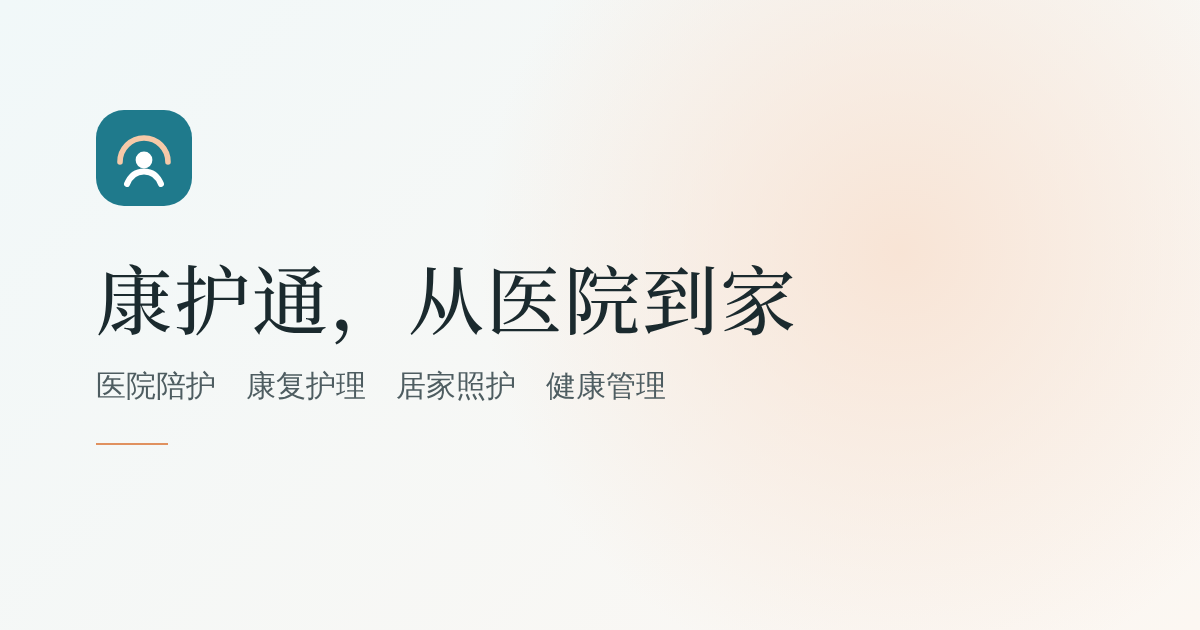
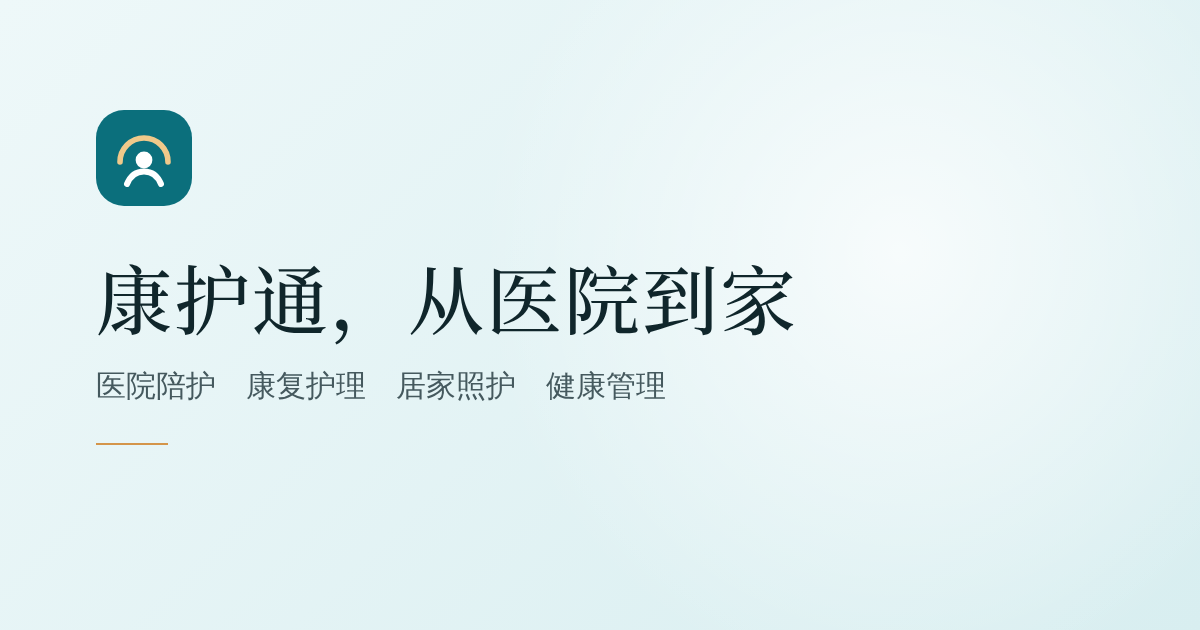
Make blue-green the dominant tone with warm accents only
Primary #0b6f7c with blue-green tints for section backgrounds, cards,
top bar and footer. Warm amber is limited to the family-concerns section
and small family-facing details. Larger display type and more generous
spacing; logo, sharing image and app icon recoloured.

Claude-Session: https://claude.ai/code/session_01QeRiE8XZmtAwkRMHqXrz8j

Changed region(s): [[0.6167, 0.1508, 0.8942, 0.6635], [0.4625, 0.573, 1.0, 1.0], [0.0925, 0.2111, 0.1542, 0.2413]]

diff --git a/assets/css/style.css b/assets/css/style.css
@@ -8,24 +8,24 @@
 @font-face { font-family: "KHT Serif"; font-weight: 600; font-display: swap; src: url("../fonts/kht-serif-latin-600.woff2") format("woff2"); unicode-range: U+0000-2E7F; }
 
 :root {
-  /* Two-tone palette.
-     Teal = professional trust: structure, buttons, links, data.
-     Apricot = warmth and companionship: family moments, icons, highlights. */
-  --brand: #1f7a8c;
-  --brand-mid: #2b8a9c;
-  --brand-deep: #186271;
-  --brand-ink: #123e47;
-  --brand-200: #bfe0e6;
-  --brand-100: #def0f3;
-  --brand-50: #f1f8f9;
-  --accent: #e0915f;         /* apricot: dots, rules, icon tints (decorative only) */
-  --accent-ink: #a85a32;     /* apricot dark enough for small text on white (5:1) */
-  --accent-soft: #f8e2d2;
-  --warm-100: #f5e8db;
-  --warm-50: #fcf7f2;
-  --ink: #1b2a2e;
-  --ink-soft: #4e5d61;
-  --line: #e2e9eb;
+  /* Blue-green is the dominant tone: actions, section tints, cards, top bar, footer.
+     Warm amber is an accent only: a few family-facing details and one section. */
+  --brand: #0b6f7c;
+  --brand-mid: #13808d;
+  --brand-deep: #085966;
+  --brand-ink: #063d46;
+  --brand-200: #b5dde1;
+  --brand-100: #d8eef0;
+  --brand-50: #eef8f9;
+  --brand-tint: #e3f2f3;     /* alternate section background */
+  --accent: #d4954a;         /* warm amber: dots, icon tints (decorative only) */
+  --accent-ink: #95601d;     /* amber dark enough for small text on white (5.3:1) */
+  --accent-soft: #f7e6cf;
+  --warm-100: #f4e6d4;
+  --warm-50: #fcf6ee;
+  --ink: #10262b;
+  --ink-soft: #45595e;
+  --line: #d9e9eb;
   --white: #ffffff;
   --alert: #b3261e;
   --focus: #e0a43a;
@@ -38,24 +38,24 @@
   --fs-sm: 0.889rem;
   --fs-md: 1.2rem;
   --fs-lg: 1.5rem;
-  --fs-xl: clamp(1.75rem, 1.35rem + 1.6vw, 2.5rem);
-  --fs-2xl: clamp(2.2rem, 1.4rem + 3.2vw, 4rem);
+  --fs-xl: clamp(1.9rem, 1.35rem + 2.1vw, 3rem);
+  --fs-2xl: clamp(2.4rem, 1.3rem + 4.2vw, 4.75rem);
 
   --space-1: 0.5rem;
   --space-2: 1rem;
   --space-3: 1.5rem;
   --space-4: 2rem;
   --space-5: 3rem;
-  --space-6: clamp(3.75rem, 2.5rem + 4.5vw, 7rem);
+  --space-6: clamp(4.5rem, 2.75rem + 5.5vw, 8.5rem);
 
   --gutter: clamp(1rem, 4vw, 3rem);
-  --max: 76rem;
+  --max: 80rem;
   --radius-sm: 8px;
   --radius: 16px;
   --radius-lg: 28px;
   --shadow: 0 30px 60px -36px rgba(24, 48, 44, 0.45);
   --ease-out: cubic-bezier(0.22, 1, 0.36, 1);
-  --header-h: 4.5rem;
+  --header-h: 4.75rem;
   color-scheme: light;
 }
 
@@ -144,10 +144,10 @@ strong { font-weight: 700; }
 .text-link:hover .icon { transform: translateX(3px); }
 
 /* ---------- Header ---------- */
-.utility-bar { background: var(--brand-50); color: var(--ink-soft); font-size: var(--fs-sm); border-bottom: 1px solid var(--line); }
+.utility-bar { background: var(--brand-deep); color: rgba(255, 255, 255, 0.82); font-size: var(--fs-sm); }
 .utility-inner { display: flex; justify-content: flex-end; align-items: center; gap: 0.25rem 1.25rem; min-height: 2.5rem; flex-wrap: wrap; }
-.utility-bar a { color: var(--ink-soft); text-decoration: none; display: inline-flex; align-items: center; gap: 0.4rem; min-height: 2.5rem; }
-.utility-bar a:hover { color: var(--brand); text-decoration: underline; }
+.utility-bar a { color: rgba(255, 255, 255, 0.92); text-decoration: none; display: inline-flex; align-items: center; gap: 0.4rem; min-height: 2.5rem; }
+.utility-bar a:hover { color: var(--white); text-decoration: underline; }
 .utility-bar .icon { width: 1rem; height: 1rem; }
 .utility-phone { margin-right: auto; }
 @media (max-width: 47.99rem) { .utility-links { display: none; } }
@@ -227,14 +227,15 @@ strong { font-weight: 700; }
 .section { padding-block: var(--space-6); }
 .section-tight { padding-block: var(--space-5); }
 .section-mist { background: var(--brand-50); }
-.section-sand { background: var(--warm-50); }
+.section-sand { background: var(--brand-tint); }
+.section-warm { background: var(--warm-50); }
 /* "Feature" sections: a light, rounded panel instead of a dark band */
 .section-deep { padding-block: var(--space-5); }
-.section-deep > .container { background: linear-gradient(155deg, var(--brand-50) 0%, var(--warm-50) 100%); border: 1px solid var(--line); border-radius: var(--radius-lg); padding: clamp(2rem, 1rem + 4vw, 4.5rem); }
+.section-deep > .container { background: linear-gradient(155deg, var(--brand-50) 0%, var(--brand-100) 100%); border: 1px solid var(--line); border-radius: var(--radius-lg); padding: clamp(2rem, 1rem + 4vw, 4.5rem); }
 .section-deep .btn-light { background: var(--brand); color: var(--white); }
 .section-deep .btn-light:hover { background: var(--brand-deep); color: var(--white); }
 .section-deep a:not(.btn) { color: var(--brand); }
-.section-head { margin-bottom: var(--space-5); max-width: 44rem; }
+.section-head { margin-bottom: clamp(2.5rem, 2rem + 2vw, 4rem); max-width: 48rem; }
 .section-head p { color: var(--ink-soft); font-size: var(--fs-md); line-height: 1.65; margin: 0; }
 
 .section-head-row { display: flex; flex-wrap: wrap; justify-content: space-between; align-items: end; gap: var(--space-2) var(--space-4); margin-bottom: var(--space-5); }
@@ -249,7 +250,7 @@ strong { font-weight: 700; }
   border-radius: var(--radius-lg);
   background:
     radial-gradient(90% 70% at 20% 15%, rgba(255, 255, 255, 0.55), transparent 60%),
-    linear-gradient(150deg, var(--warm-100), var(--brand-100) 60%, var(--brand-200));
+    linear-gradient(150deg, var(--brand-50), var(--brand-100) 55%, var(--brand-200));
 }
 .photo img { position: absolute; inset: 0; width: 100%; height: 100%; object-fit: cover; }
 .photo-brief {
@@ -261,10 +262,10 @@ strong { font-weight: 700; }
 .photo.has-photo .photo-brief { display: none; }
 
 /* ---------- Home hero ---------- */
-.hero { padding-block: clamp(2rem, 1.5rem + 3vw, 4.5rem) var(--space-5); }
+.hero { padding-block: clamp(2.5rem, 1.5rem + 4vw, 6rem) var(--space-5); }
 .hero-grid { display: grid; gap: var(--space-5); align-items: center; }
 @media (min-width: 60rem) { .hero-grid { grid-template-columns: 1.05fr 0.95fr; gap: clamp(2.5rem, 5vw, 5rem); } }
-.hero h1 { max-width: 13em; }
+.hero h1 { max-width: 13em; margin-bottom: var(--space-3); }
 .hero .lead { max-width: 31em; margin-bottom: var(--space-4); }
 .hero-actions { display: flex; flex-wrap: wrap; gap: 0.75rem; }
 .hero-visual { position: relative; padding-bottom: 5rem; }
@@ -366,7 +367,7 @@ strong { font-weight: 700; }
 @media (min-width: 40rem) { .standards { grid-template-columns: repeat(2, 1fr); } }
 @media (min-width: 64rem) { .standards { grid-template-columns: repeat(4, 1fr); } .standards-3 { grid-template-columns: repeat(3, 1fr); } }
 .standard { border-top: 1px solid var(--brand-200); padding-top: var(--space-3); }
-.standard-figure { display: block; font-family: var(--serif); font-weight: 500; line-height: 1; font-size: clamp(2.6rem, 2rem + 2.4vw, 3.8rem); color: var(--brand); margin-bottom: 0.9rem; }
+.standard-figure { display: block; font-family: var(--serif); font-weight: 500; line-height: 1; font-size: clamp(3rem, 2.2rem + 3vw, 4.6rem); color: var(--brand); margin-bottom: 1rem; }
 .standard-figure small { font-family: var(--sans); font-size: 0.36em; font-weight: 600; margin-left: 0.2em; color: var(--ink-soft); }
 .standard h3 { font-family: var(--sans); font-size: 1.02rem; font-weight: 700; margin-bottom: 0.35rem; letter-spacing: 0; }
 .standard p { font-size: 0.95rem; margin: 0; color: var(--ink-soft); }
@@ -446,7 +447,7 @@ strong { font-weight: 700; }
 .service-kicker { color: var(--brand); font-weight: 700; font-size: var(--fs-sm); margin-bottom: 0.4rem; }
 .included { display: grid; gap: 0.6rem 2rem; margin: var(--space-3) 0; }
 @media (min-width: 36rem) { .included { grid-template-columns: 1fr 1fr; } }
-.fit-for { padding: 1.1rem 1.3rem; border-left: 2px solid var(--accent); background: var(--warm-50); border-radius: 0 var(--radius-sm) var(--radius-sm) 0; margin-bottom: var(--space-3); }
+.fit-for { padding: 1.1rem 1.3rem; border-left: 2px solid var(--accent); background: var(--brand-50); border-radius: 0 var(--radius-sm) var(--radius-sm) 0; margin-bottom: var(--space-3); }
 .fit-for p { margin: 0; }
 
 /* ---------- Tables ---------- */
@@ -617,18 +618,18 @@ input:focus-visible, select:focus-visible, textarea:focus-visible { outline: non
 }
 
 /* =====================================================================
-   Warmth: apricot marks the family and companionship moments
+   Warm accent: gold marks the family-facing moments
    ===================================================================== */
 .need-icon { background: var(--accent-soft); color: var(--accent-ink); }
 .answer .worry { color: var(--accent-ink); }
 .care-report-day { color: var(--accent-ink); }
-.duo-item:not(.is-deep) { background: var(--warm-50); }
+.duo-item:not(.is-deep) { background: var(--white); }
 .section-sand .duo-item:not(.is-deep) { background: var(--white); }
 
-/* Soft warm light behind the hero photo */
+/* Soft light behind the hero photo */
 .hero-visual::before {
   content: ""; position: absolute; z-index: -1; inset: -8% -12% 10% 8%;
-  background: radial-gradient(closest-side, var(--accent-soft), transparent 75%);
+  background: radial-gradient(closest-side, var(--brand-100), transparent 75%);
   opacity: 0.8; pointer-events: none;
 }
 .hero { position: relative; isolation: isolate; overflow: clip; }

diff --git a/index.html b/index.html
@@ -15,7 +15,7 @@
 <meta property="og:locale" content="zh_CN">
 <meta property="og:locale:alternate" content="en_US">
 <meta name="twitter:card" content="summary_large_image">
-<meta name="theme-color" content="#1f7a8c">
+<meta name="theme-color" content="#0b6f7c">
 <link rel="icon" href="assets/img/logo.svg" type="image/svg+xml">
 <link rel="apple-touch-icon" href="assets/img/apple-touch-icon.png">
 <link rel="manifest" href="site.webmanifest">
@@ -215,7 +215,7 @@
   </div>
 </section>
 
-<section class="section section-sand" aria-labelledby="worries-title">
+<section class="section section-warm" aria-labelledby="worries-title">
   <div class="container">
     <div class="section-head">
       <h2 id="worries-title" data-en="What families worry about, and what we do about it">家属最放心不下的四件事</h2>

diff --git a/404.html b/404.html
@@ -16,7 +16,7 @@
 <meta property="og:locale" content="zh_CN">
 <meta property="og:locale:alternate" content="en_US">
 <meta name="twitter:card" content="summary_large_image">
-<meta name="theme-color" content="#1f7a8c">
+<meta name="theme-color" content="#0b6f7c">
 <link rel="icon" href="assets/img/logo.svg" type="image/svg+xml">
 <link rel="apple-touch-icon" href="assets/img/apple-touch-icon.png">
 <link rel="manifest" href="site.webmanifest">

diff --git a/about.html b/about.html
@@ -15,7 +15,7 @@
 <meta property="og:locale" content="zh_CN">
 <meta property="og:locale:alternate" content="en_US">
 <meta name="twitter:card" content="summary_large_image">
-<meta name="theme-color" content="#1f7a8c">
+<meta name="theme-color" content="#0b6f7c">
 <link rel="icon" href="assets/img/logo.svg" type="image/svg+xml">
 <link rel="apple-touch-icon" href="assets/img/apple-touch-icon.png">
 <link rel="manifest" href="site.webmanifest">

diff --git a/book.html b/book.html
@@ -15,7 +15,7 @@
 <meta property="og:locale" content="zh_CN">
 <meta property="og:locale:alternate" content="en_US">
 <meta name="twitter:card" content="summary_large_image">
-<meta name="theme-color" content="#1f7a8c">
+<meta name="theme-color" content="#0b6f7c">
 <link rel="icon" href="assets/img/logo.svg" type="image/svg+xml">
 <link rel="apple-touch-icon" href="assets/img/apple-touch-icon.png">
 <link rel="manifest" href="site.webmanifest">

diff --git a/careers.html b/careers.html
@@ -15,7 +15,7 @@
 <meta property="og:locale" content="zh_CN">
 <meta property="og:locale:alternate" content="en_US">
 <meta name="twitter:card" content="summary_large_image">
-<meta name="theme-color" content="#1f7a8c">
+<meta name="theme-color" content="#0b6f7c">
 <link rel="icon" href="assets/img/logo.svg" type="image/svg+xml">
 <link rel="apple-touch-icon" href="assets/img/apple-touch-icon.png">
 <link rel="manifest" href="site.webmanifest">

diff --git a/guides.html b/guides.html
@@ -15,7 +15,7 @@
 <meta property="og:locale" content="zh_CN">
 <meta property="og:locale:alternate" content="en_US">
 <meta name="twitter:card" content="summary_large_image">
-<meta name="theme-color" content="#1f7a8c">
+<meta name="theme-color" content="#0b6f7c">
 <link rel="icon" href="assets/img/logo.svg" type="image/svg+xml">
 <link rel="apple-touch-icon" href="assets/img/apple-touch-icon.png">
 <link rel="manifest" href="site.webmanifest">

diff --git a/how-it-works.html b/how-it-works.html
@@ -15,7 +15,7 @@
 <meta property="og:locale" content="zh_CN">
 <meta property="og:locale:alternate" content="en_US">
 <meta name="twitter:card" content="summary_large_image">
-<meta name="theme-color" content="#1f7a8c">
+<meta name="theme-color" content="#0b6f7c">
 <link rel="icon" href="assets/img/logo.svg" type="image/svg+xml">
 <link rel="apple-touch-icon" href="assets/img/apple-touch-icon.png">
 <link rel="manifest" href="site.webmanifest">

diff --git a/locations.html b/locations.html
@@ -15,7 +15,7 @@
 <meta property="og:locale" content="zh_CN">
 <meta property="og:locale:alternate" content="en_US">
 <meta name="twitter:card" content="summary_large_image">
-<meta name="theme-color" content="#1f7a8c">
+<meta name="theme-color" content="#0b6f7c">
 <link rel="icon" href="assets/img/logo.svg" type="image/svg+xml">
 <link rel="apple-touch-icon" href="assets/img/apple-touch-icon.png">
 <link rel="manifest" href="site.webmanifest">

diff --git a/news.html b/news.html
@@ -15,7 +15,7 @@
 <meta property="og:locale" content="zh_CN">
 <meta property="og:locale:alternate" content="en_US">
 <meta name="twitter:card" content="summary_large_image">
-<meta name="theme-color" content="#1f7a8c">
+<meta name="theme-color" content="#0b6f7c">
 <link rel="icon" href="assets/img/logo.svg" type="image/svg+xml">
 <link rel="apple-touch-icon" href="assets/img/apple-touch-icon.png">
 <link rel="manifest" href="site.webmanifest">

diff --git a/privacy.html b/privacy.html
@@ -15,7 +15,7 @@
 <meta property="og:locale" content="zh_CN">
 <meta property="og:locale:alternate" content="en_US">
 <meta name="twitter:card" content="summary_large_image">
-<meta name="theme-color" content="#1f7a8c">
+<meta name="theme-color" content="#0b6f7c">
 <link rel="icon" href="assets/img/logo.svg" type="image/svg+xml">
 <link rel="apple-touch-icon" href="assets/img/apple-touch-icon.png">
 <link rel="manifest" href="site.webmanifest">

diff --git a/services.html b/services.html
@@ -15,7 +15,7 @@
 <meta property="og:locale" content="zh_CN">
 <meta property="og:locale:alternate" content="en_US">
 <meta name="twitter:card" content="summary_large_image">
-<meta name="theme-color" content="#1f7a8c">
+<meta name="theme-color" content="#0b6f7c">
 <link rel="icon" href="assets/img/logo.svg" type="image/svg+xml">
 <link rel="apple-touch-icon" href="assets/img/apple-touch-icon.png">
 <link rel="manifest" href="site.webmanifest">
